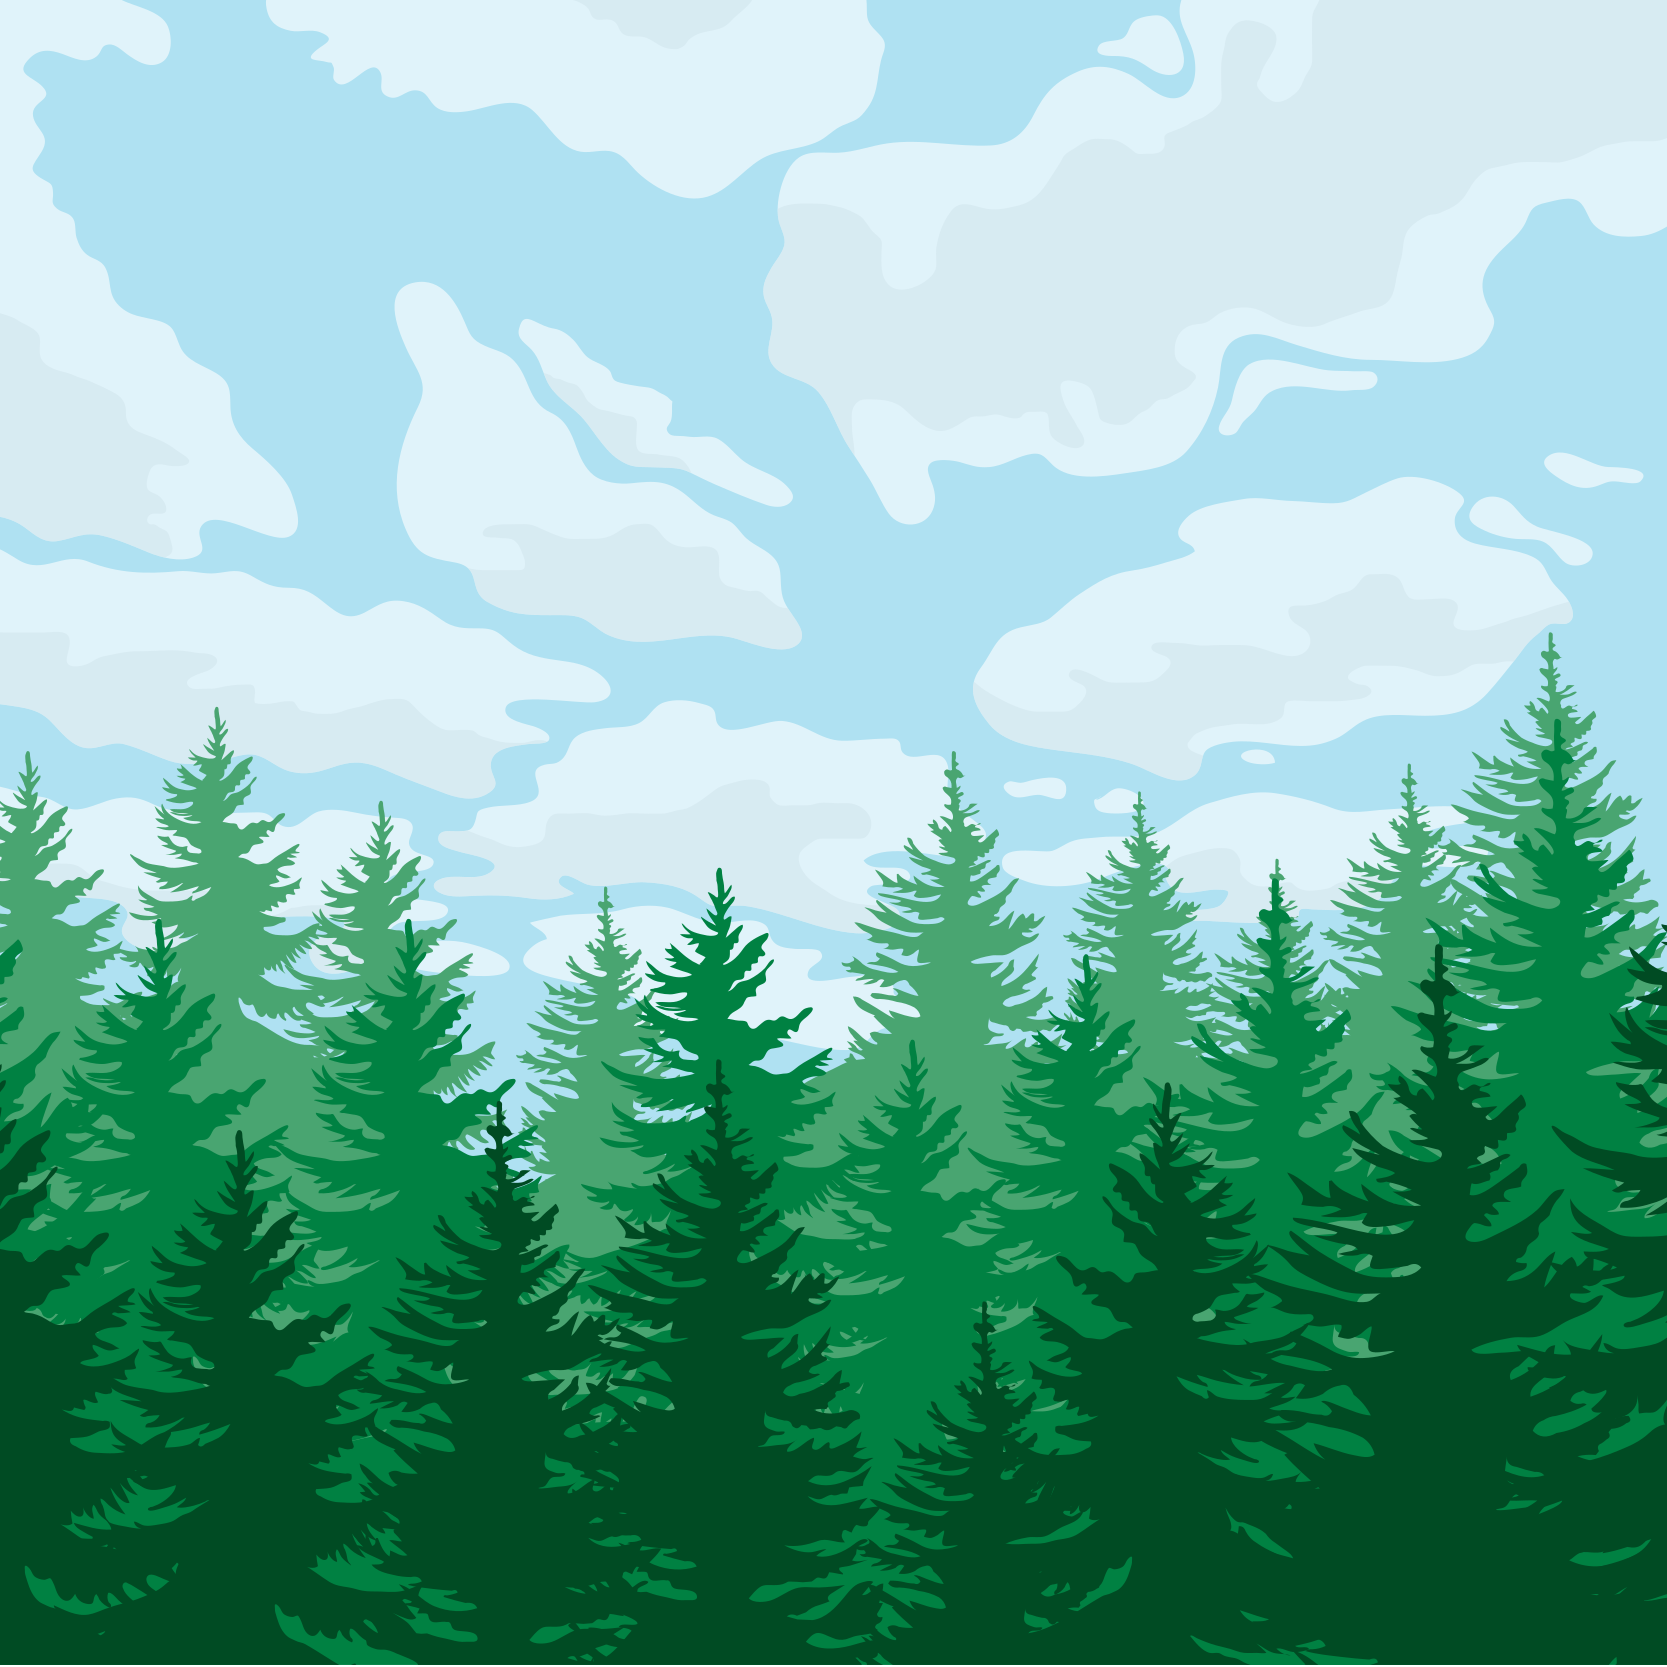
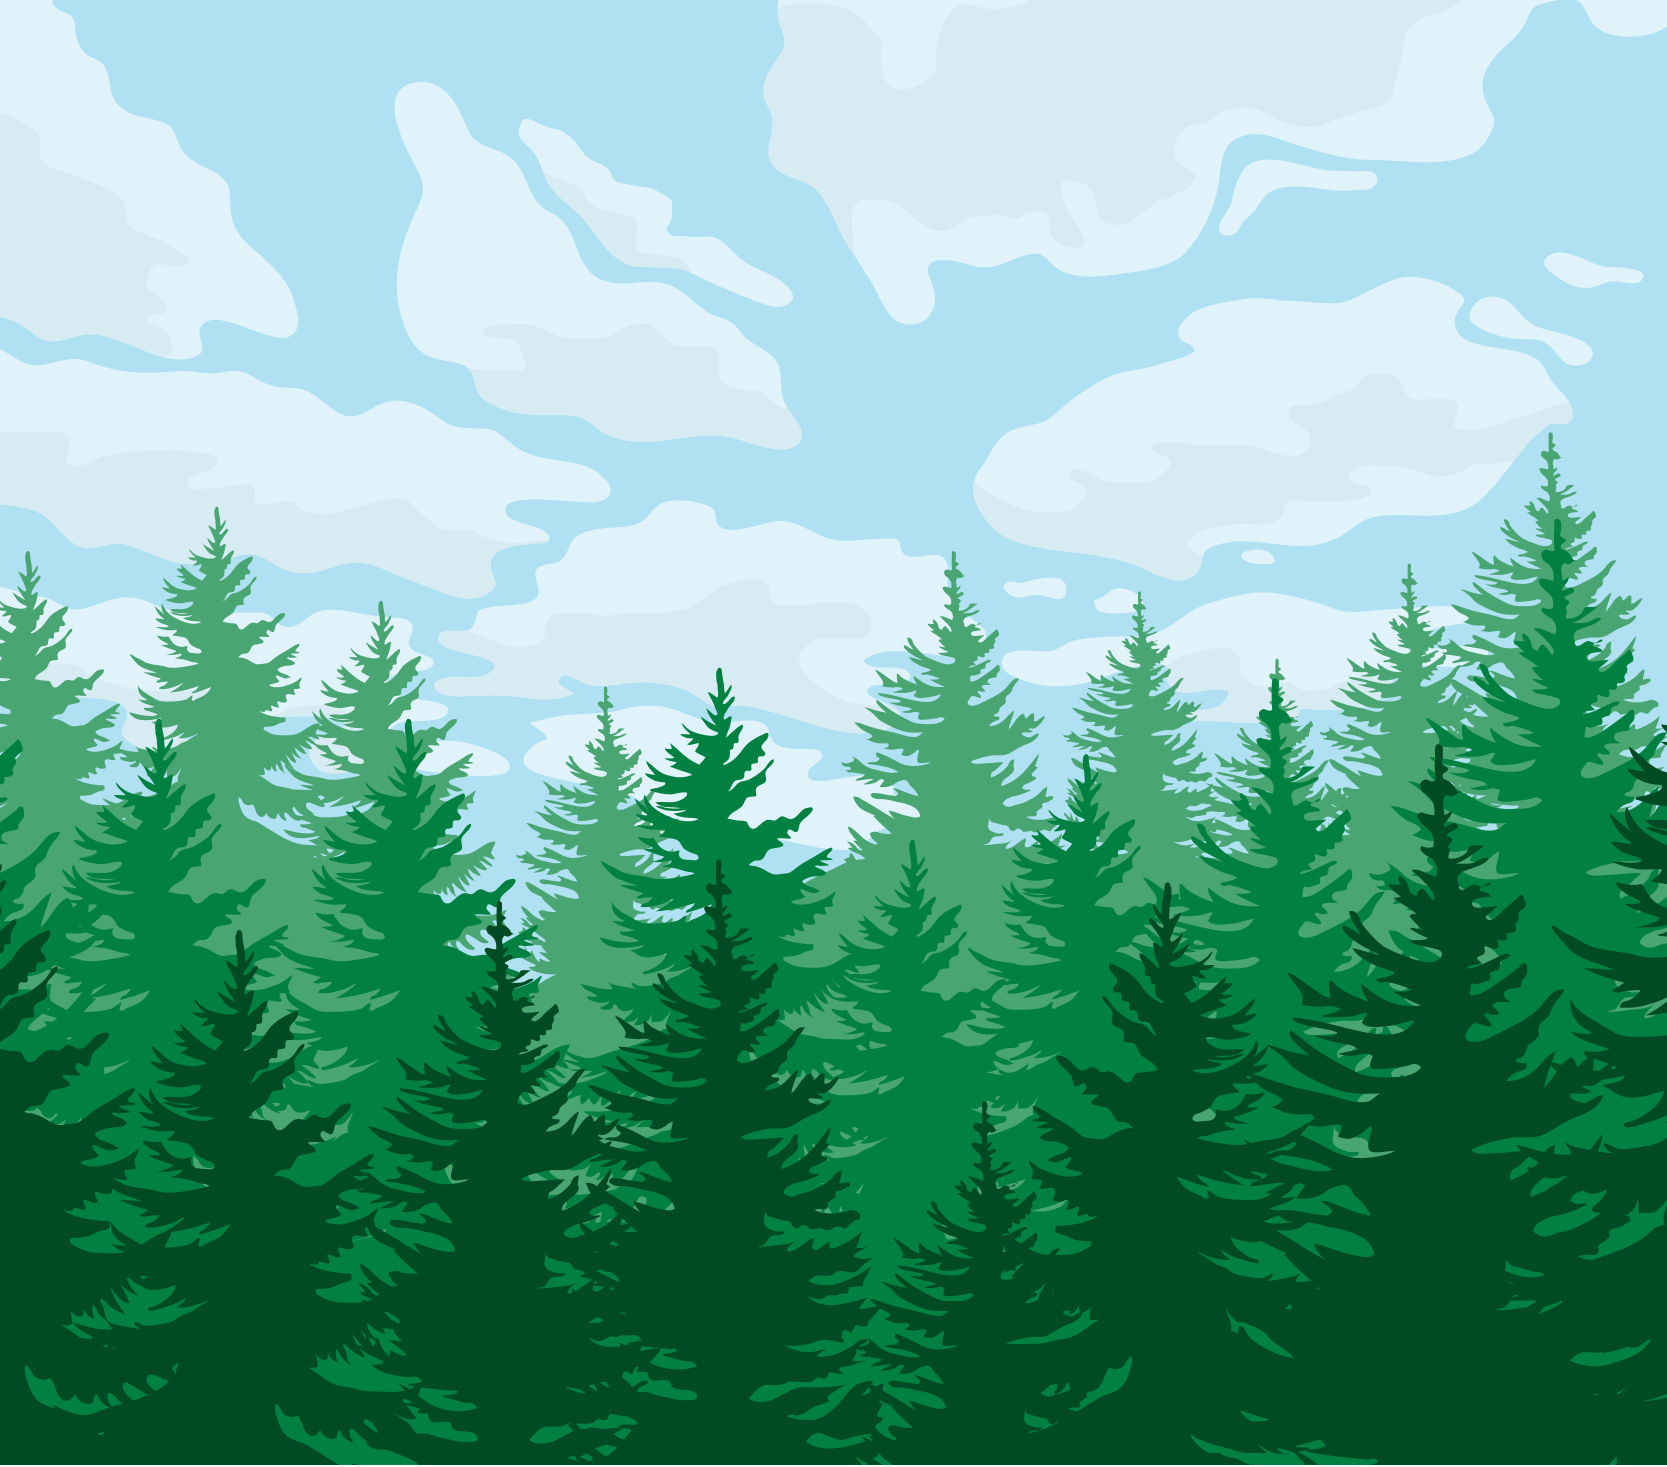
optimize background image and add gradient before it is loaded

diff --git a/styles/torela.css b/styles/torela.css
@@ -9,7 +9,11 @@ body {
   max-width: 1160px;
   padding: 0 1rem 1rem;
   margin: 0 auto;
-  background: #064c27 url(/img/taust-mets-1.png) center -200px no-repeat;
+  background: #064c27;
+  background-position: center top;
+  background-repeat: no-repeat;
+  background-image: url(/img/taust-mets-1.png);
+  background-image: url(/img/taust-mets-1.png), linear-gradient(#aee0f2 550px, #064c27 1000px);
 }
 
 h1, h2, h3, h4 {
